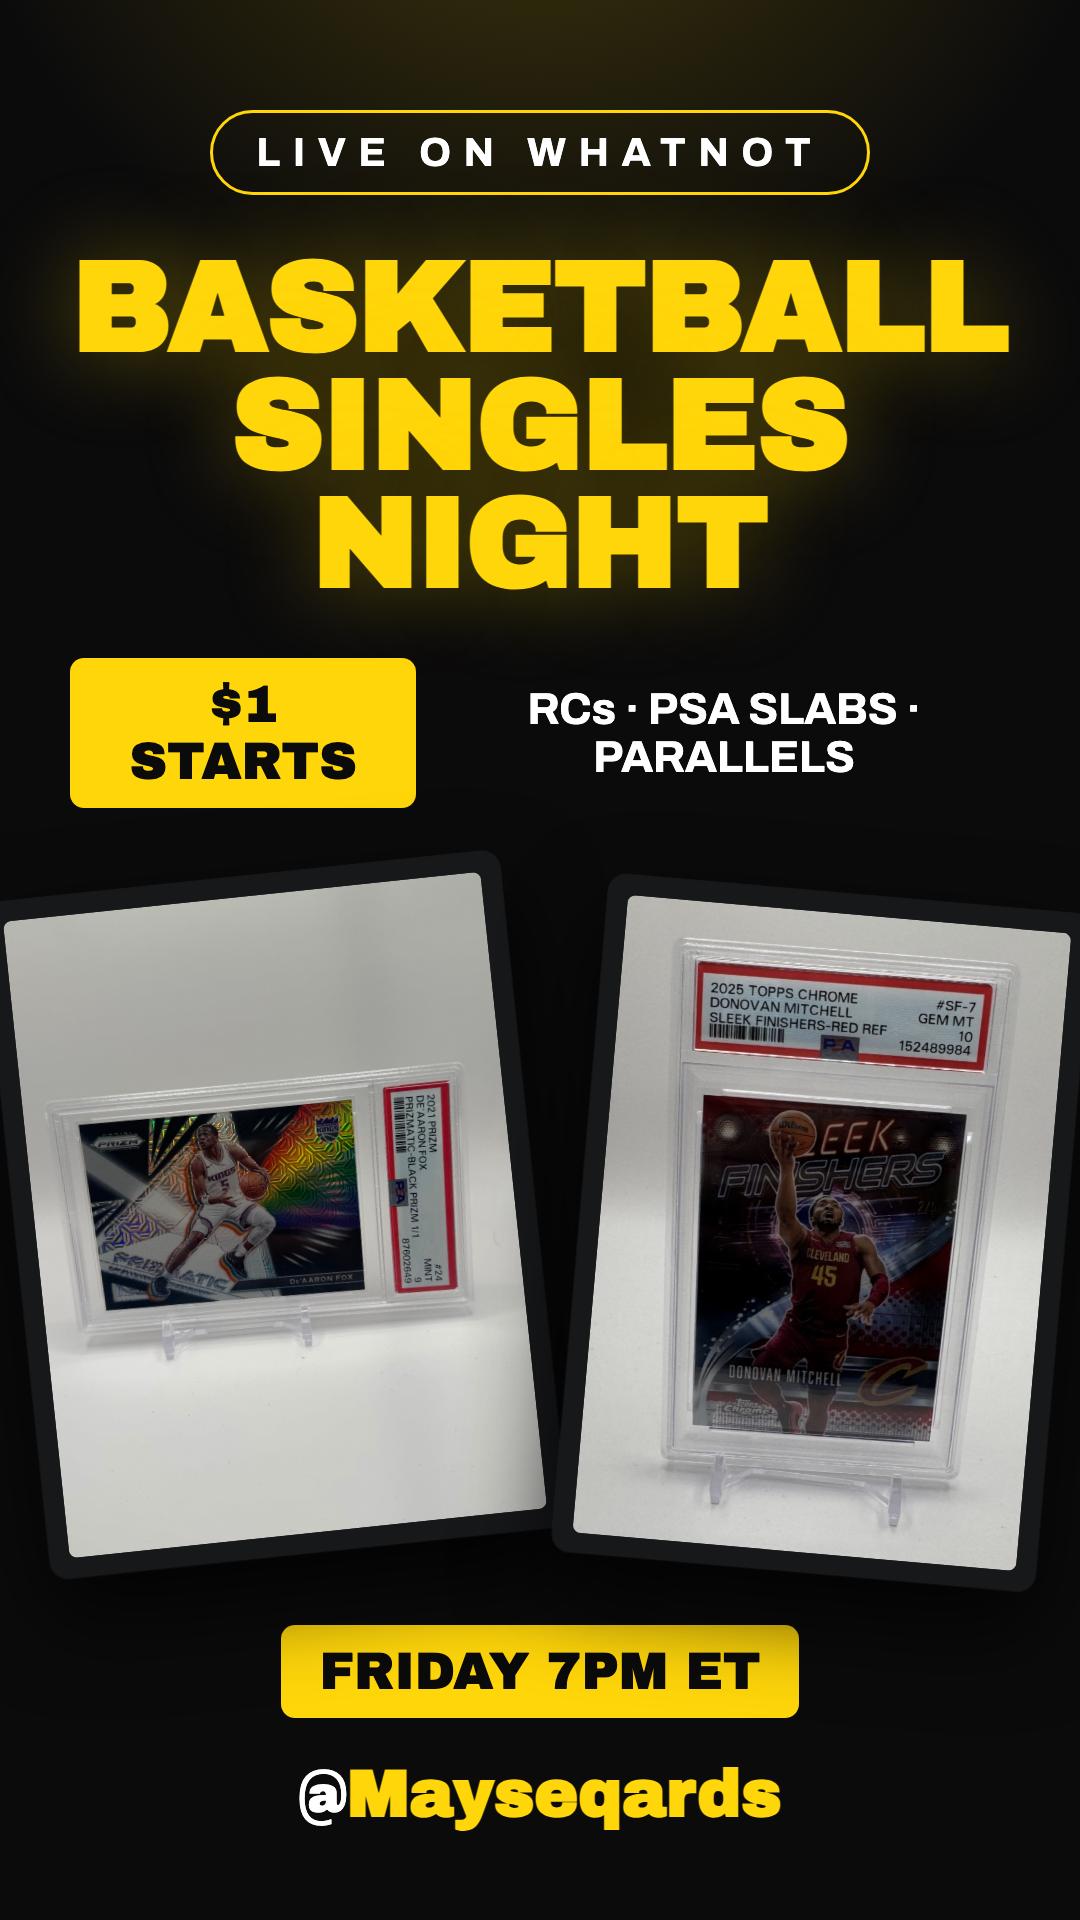
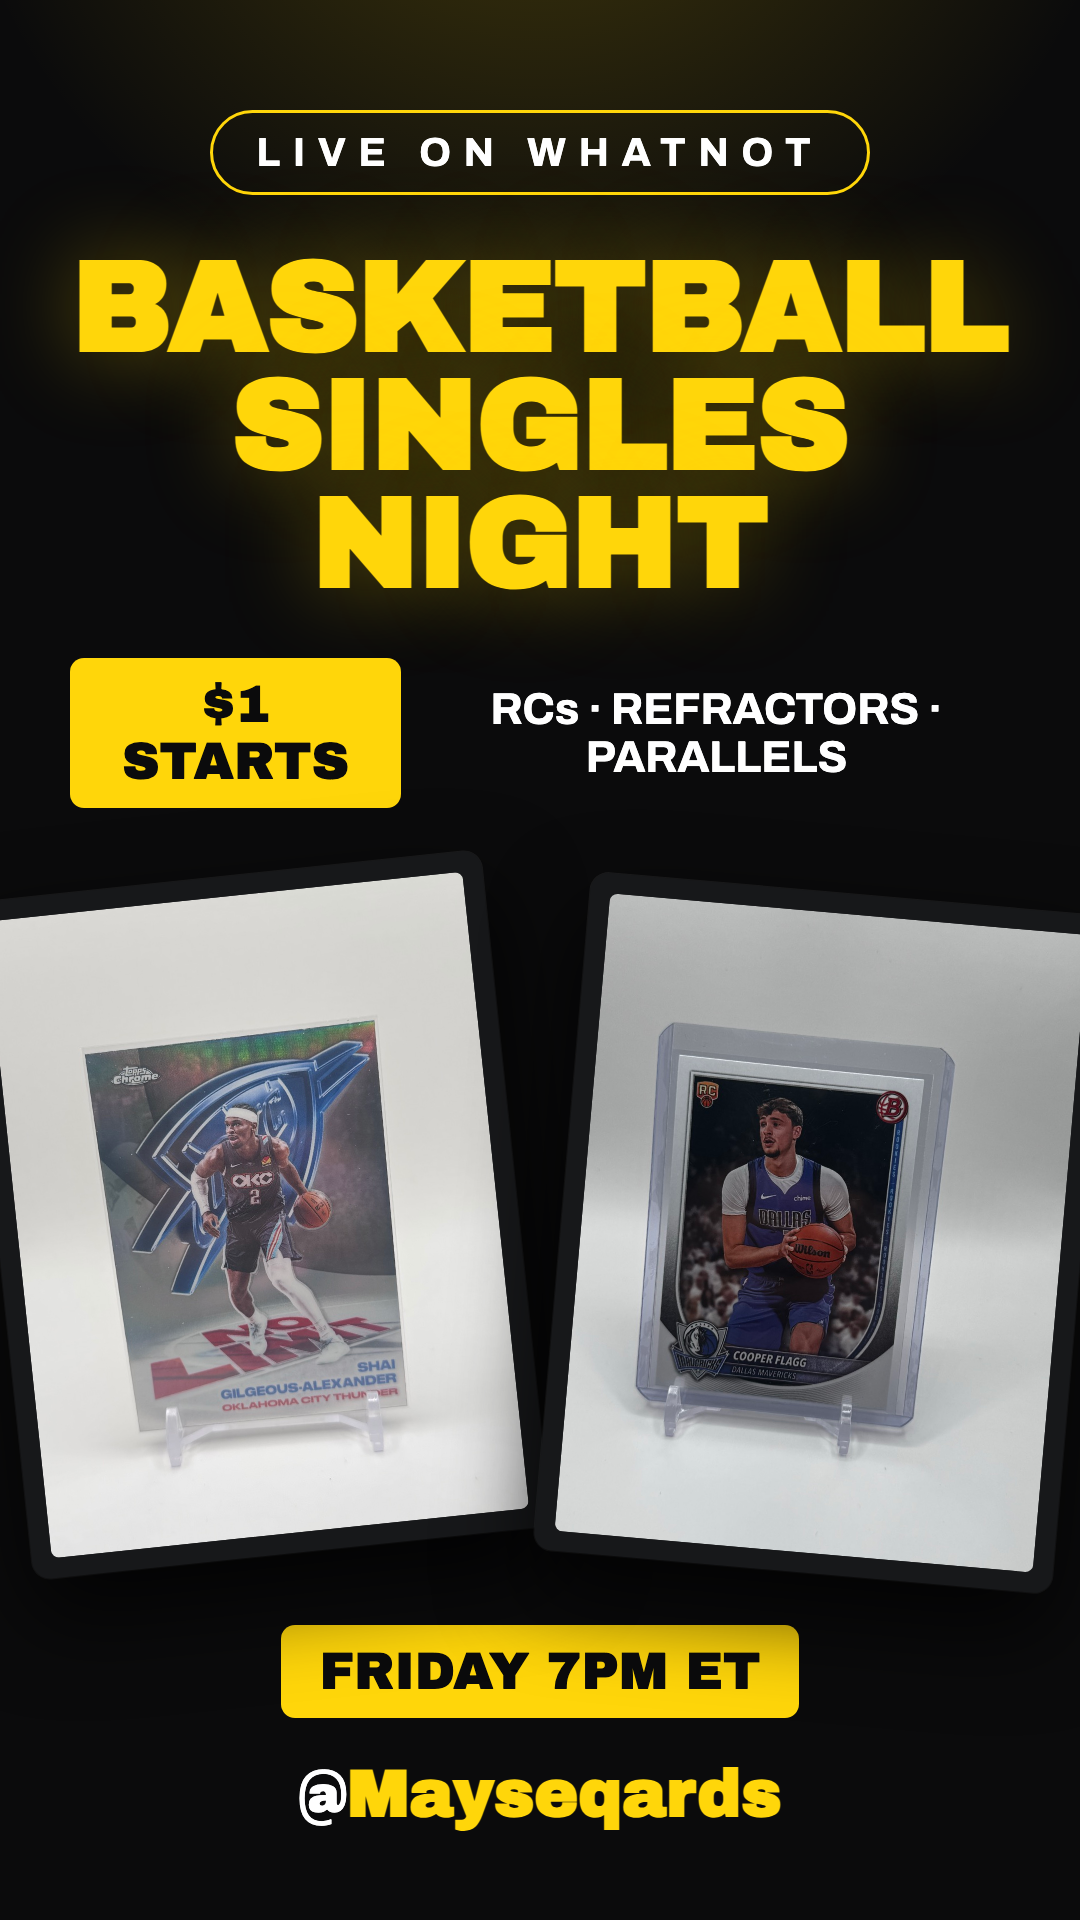
Whatnot pipeline raw-only (no slabs): gen_whatnot excludes graded; announcements show raw SGA+Flagg, copy drops PSA SLABS

diff --git a/gen_whatnot.py b/gen_whatnot.py
@@ -31,6 +31,8 @@ NBA = {"Hawks","Celtics","Nets","Hornets","Bulls","Cavaliers","Mavericks","Nugge
        "Bucks","Timberwolves","Pelicans","Knicks","Thunder","Magic","76ers","Suns",
        "Trail Blazers","Blazers","Kings","Spurs","Raptors","Jazz","Wizards"}
 FOOTBALL = {"Lions","Bears","Packers","Cowboys","Eagles","Chiefs","Bills","49ers"}
+# Never list on Whatnot: oversized items that don't fit the Sports singles (3oz) profile.
+EXCLUDE = {"C104"}  # Barry Sanders 2004 Topps HOF plaque auto — too big to ship as a single
 
 def cards():
     out = []
@@ -38,7 +40,8 @@ def cards():
         s = line.strip().rstrip(",")
         if s.startswith('{"id":"C'):
             c = json.loads(s)
-            if c.get("status") in ("forSale", "scheduled") and not c.get("hold"):
+            if c.get("status") in ("forSale", "scheduled") and not c.get("hold") \
+                    and not c.get("grade") and c["id"] not in EXCLUDE:   # raw only — no slabs on Whatnot
                 out.append(c)
     return out
 
@@ -98,9 +101,10 @@ def main():
     if mode == "shop":
         lo = arg("--min", 10)
         keep = sorted((c for c in priced if c["price"] >= lo), key=lambda c: -c["price"])
-        write("whatnot-shop.csv", [row(c, "Buy it Now", c["price"], "TRUE") for c in keep])
+        # Whatnot rejects non-integer prices ("must be a positive integer")
+        write("whatnot-shop.csv", [row(c, "Buy it Now", max(1, round(c["price"])), "TRUE") for c in keep])
     elif mode == "show":
-        start = arg("--start", 1)
+        start = int(arg("--start", 1))
         ids = [a for a in sys.argv[2:] if a.startswith("C")]
         if ids:
             missing = [i for i in ids if i not in cs]
